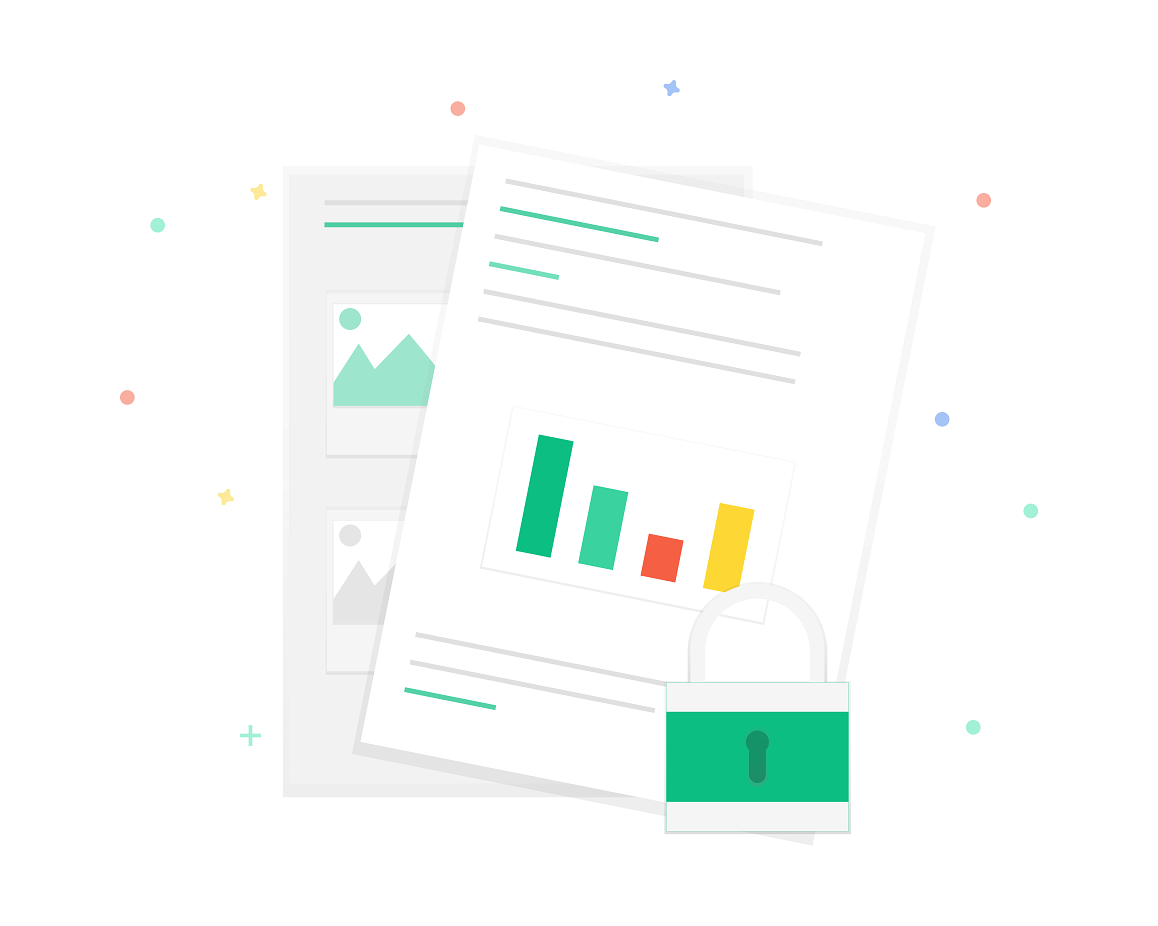
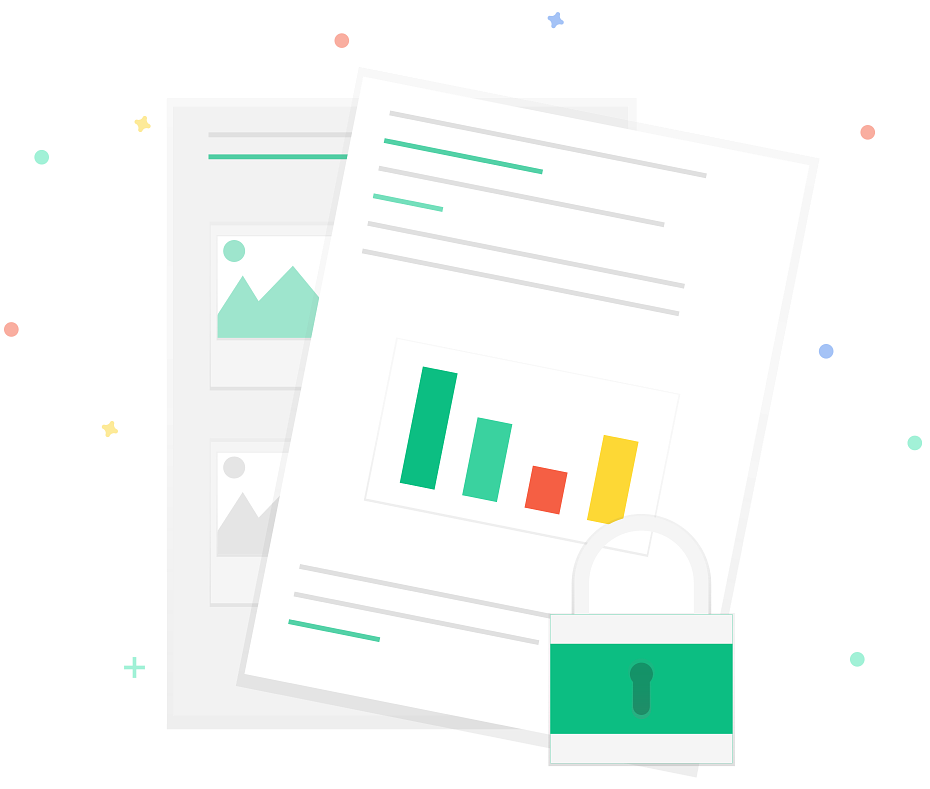
edited img and style - home

diff --git a/smithsite/templates/base.html b/smithsite/templates/base.html
@@ -23,6 +23,19 @@
         {% block extra_css %}
             {# Override this in templates to add extra stylesheets #}
         {% endblock %}
+
+        {% if not request.is_preview %}
+            <!-- Global site tag (gtag.js) - Google Analytics -->
+            <script async src="https://www.googletagmanager.com/gtag/js?id=UA-155097252-1"></script>
+            <script>
+              window.dataLayer = window.dataLayer || [];
+              function gtag(){dataLayer.push(arguments);}
+              gtag('js', new Date());
+
+              gtag('config', 'UA-155097252-1');
+            </script>
+        {% endif %}
+
     </head>
 
     <body class="{% block body_class %}{% endblock %}">

diff --git a/smithsite/static/css/smithsite.css b/smithsite/static/css/smithsite.css
@@ -27,12 +27,12 @@
 }
 
 .home-head h1 {
-	padding-top: 20%;
-	font-family: Poppins;
-	font-style: normal;
-	font-weight: 600;
-	font-size: 55px;
-	line-height: 126.3%;
+    padding-top: 11%;
+    font-family: Poppins;
+    font-style: normal;
+    font-weight: 600;
+    font-size: 63px;
+    z-index: 999;
 }
 
 .home-btn {
